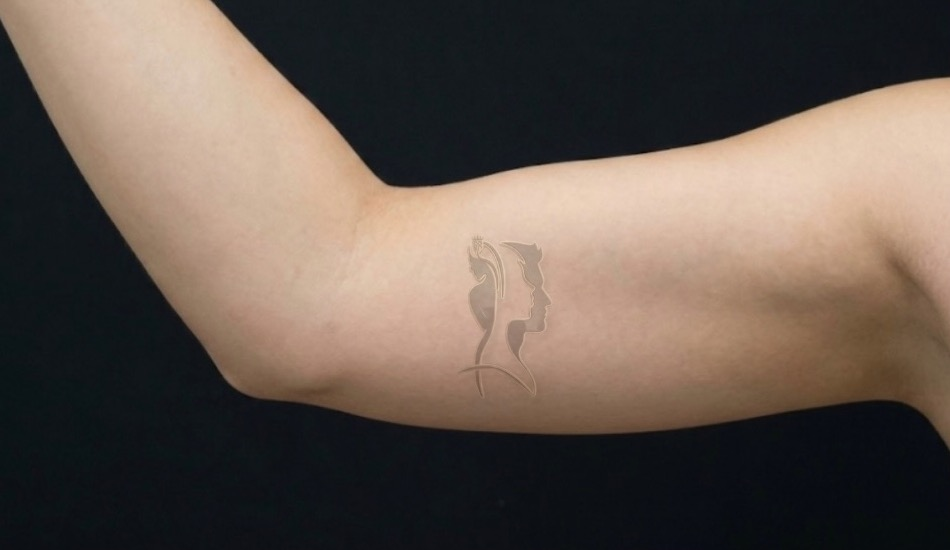
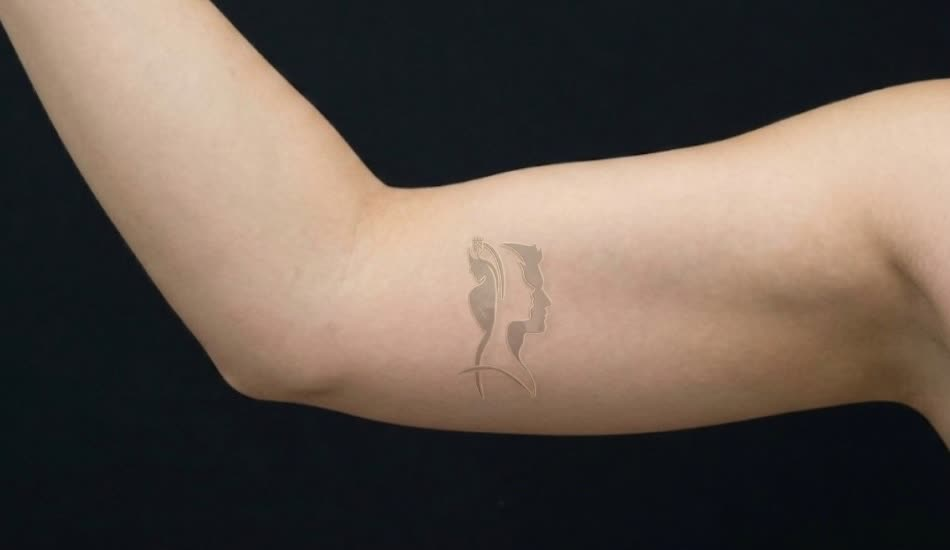
[before-after]: add upper blepharoplasty result card
Second real patient result. Unlike the arms pair, the source composite
stacks before over after with gold lettering spanning the seam, so it
cannot drive a comparison slider — it ships whole as a static card.

- .bna-static: two-column card at the crop's exact 1000/1204 ratio, so
  object-fit crops nothing; falls back to one column at <=480px
- initBnaSliders now skips cards lacking .bna-stage/.bna-after/.bna-line/
  .bna-handle. Without this a static card threw on the first null query
  and killed every slider initialised after it.
- re-crop arms pair with ffmpeg. sips --cropOffset is silently ignored
  (verified: identical md5 vs a centred crop), so the previous images
  were centre-cropped and kept a gold frame sliver on the right edge.

Patient face is identifiable and shown with the client's confirmation.
Source: instagram.com/p/DSpE2vxCAIg

diff --git a/style.css b/style.css
@@ -805,6 +805,20 @@ ul { list-style:none; }
   aspect-ratio: 19 / 11;
 }
 
+/* Static result card — source composite already stacks before over after,
+   so it can't drive a slider. Shown whole at its own ratio. */
+.bna-card.bna-static {
+  grid-column: span 2;
+  aspect-ratio: 1000 / 1204;
+}
+.bna-card.bna-static .bna-result {
+  display: block;
+  width: 100%;
+  height: 100%;
+  object-fit: cover;
+  object-position: center;
+}
+
 .bna-grid {
   display: grid;
   grid-template-columns: repeat(5, 1fr);
@@ -964,7 +978,8 @@ ul { list-style:none; }
 @media (max-width: 480px) {
   .bna-grid { grid-template-columns: 1fr; gap: 10px; }
   /* Single-column: a two-column span would overflow the grid */
-  .bna-card.bna-wide { grid-column: span 1; }
+  .bna-card.bna-wide,
+  .bna-card.bna-static { grid-column: span 1; }
 }
 
 /* --------------------------------

diff --git a/index.html b/index.html
@@ -421,6 +421,13 @@
     </div>
 
 
+    <!-- Real patient result — Upper Blepharoplasty (source: instagram.com/p/DSpE2vxCAIg)
+         Source composite stacks before over after, so it cannot drive a slider — shown whole. -->
+    <div class="bna-card bna-static" data-category="eyes">
+      <div class="bna-label">Upper Blepharoplasty</div>
+      <img src="assets/bna/eyelid-result.jpg" class="bna-result" draggable="false" alt="Upper blepharoplasty — before and after">
+    </div>
+
     <div class="bna-card" data-category="body">
       <div class="bna-label">4D Liposculpture</div>
       <div class="bna-stage">

diff --git a/script.js b/script.js
@@ -680,6 +680,8 @@ document.getElementById('contactForm').addEventListener('submit', (e) => {
     var after   = card.querySelector('.bna-after');
     var line    = card.querySelector('.bna-line');
     var handle  = card.querySelector('.bna-handle');
+    /* Static result cards have no slider parts — skip them */
+    if (!stage || !after || !line || !handle) return;
     var dragging = false;
 
     function setPos(pct) {
